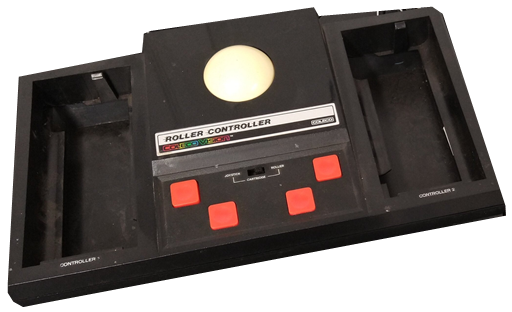
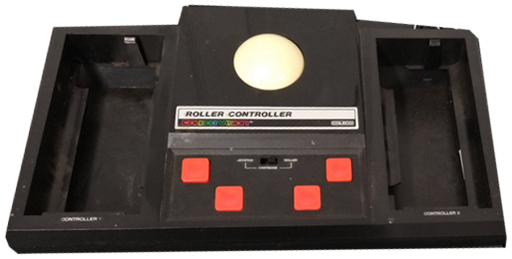
Rework Coleco controller photographs and align their visual zones

diff --git a/src/GWGUI.App/Views/Controls/Options/ControllerVisualization/Profiles/Coleco/ColecoSuperActionController.cs b/src/GWGUI.App/Views/Controls/Options/ControllerVisualization/Profiles/Coleco/ColecoSuperActionController.cs
@@ -6,23 +6,25 @@ internal static partial class ControllerArtworkCatalog
 {
     private static ProfileDefinition CreateColecoSuperActionController() => new(ControllerArtworkFileNames.ColecoSuperActionController,
     [
-        new(EmulationControllerVisualControl.DirectionUp, ControllerVisualZoneShape.Ellipse, 34, 2, 14, 8),
-        new(EmulationControllerVisualControl.DirectionDown, ControllerVisualZoneShape.Ellipse, 34, 17, 14, 8),
-        new(EmulationControllerVisualControl.DirectionLeft, ControllerVisualZoneShape.Ellipse, 20, 10, 14, 8),
-        new(EmulationControllerVisualControl.DirectionRight, ControllerVisualZoneShape.Ellipse, 48, 10, 14, 8),
-        new(EmulationControllerVisualControl.Key1, ControllerVisualZoneShape.RoundedRectangle, 27, 39, 11, 6),
-        new(EmulationControllerVisualControl.Key2, ControllerVisualZoneShape.RoundedRectangle, 41, 39, 11, 6),
-        new(EmulationControllerVisualControl.Key3, ControllerVisualZoneShape.RoundedRectangle, 55, 39, 11, 6),
-        new(EmulationControllerVisualControl.Key4, ControllerVisualZoneShape.RoundedRectangle, 27, 46, 11, 6),
-        new(EmulationControllerVisualControl.Key5, ControllerVisualZoneShape.RoundedRectangle, 41, 46, 11, 6),
-        new(EmulationControllerVisualControl.Key6, ControllerVisualZoneShape.RoundedRectangle, 55, 46, 11, 6),
-        new(EmulationControllerVisualControl.Key7, ControllerVisualZoneShape.RoundedRectangle, 27, 53, 11, 6),
-        new(EmulationControllerVisualControl.Key8, ControllerVisualZoneShape.RoundedRectangle, 41, 53, 11, 6),
-        new(EmulationControllerVisualControl.Key9, ControllerVisualZoneShape.RoundedRectangle, 55, 53, 11, 6),
-        new(EmulationControllerVisualControl.KeyStar, ControllerVisualZoneShape.RoundedRectangle, 27, 61, 11, 6),
-        new(EmulationControllerVisualControl.Key0, ControllerVisualZoneShape.RoundedRectangle, 41, 61, 11, 6),
-        new(EmulationControllerVisualControl.KeyHash, ControllerVisualZoneShape.RoundedRectangle, 55, 61, 11, 6),
-        new(EmulationControllerVisualControl.StickLeft, ControllerVisualZoneShape.RoundedRectangle, 30, 74, 15, 7),
-        new(EmulationControllerVisualControl.StickRight, ControllerVisualZoneShape.RoundedRectangle, 45, 74, 15, 7)
+        new(EmulationControllerVisualControl.DirectionUp, ControllerVisualZoneShape.Ellipse, 24, 23, 10, 6),
+        new(EmulationControllerVisualControl.DirectionDown, ControllerVisualZoneShape.Ellipse, 24, 34, 10, 6),
+        new(EmulationControllerVisualControl.DirectionLeft, ControllerVisualZoneShape.Ellipse, 16, 28, 10, 6),
+        new(EmulationControllerVisualControl.DirectionRight, ControllerVisualZoneShape.Ellipse, 34, 28, 10, 6),
+        new(EmulationControllerVisualControl.Key1, ControllerVisualZoneShape.RoundedRectangle, 23, 49.5, 6, 3.7),
+        new(EmulationControllerVisualControl.Key2, ControllerVisualZoneShape.RoundedRectangle, 29.5, 50, 6, 3.7),
+        new(EmulationControllerVisualControl.Key3, ControllerVisualZoneShape.RoundedRectangle, 36, 50.5, 6, 3.7),
+        new(EmulationControllerVisualControl.Key4, ControllerVisualZoneShape.RoundedRectangle, 19.5, 54, 6, 3.7),
+        new(EmulationControllerVisualControl.Key5, ControllerVisualZoneShape.RoundedRectangle, 26.5, 54.5, 6, 3.7),
+        new(EmulationControllerVisualControl.Key6, ControllerVisualZoneShape.RoundedRectangle, 33.5, 55, 6, 3.7),
+        new(EmulationControllerVisualControl.Key7, ControllerVisualZoneShape.RoundedRectangle, 16.5, 58.3, 6, 3.7),
+        new(EmulationControllerVisualControl.Key8, ControllerVisualZoneShape.RoundedRectangle, 23, 59, 6, 3.7),
+        new(EmulationControllerVisualControl.Key9, ControllerVisualZoneShape.RoundedRectangle, 29.5, 59.6, 6, 3.7),
+        new(EmulationControllerVisualControl.KeyStar, ControllerVisualZoneShape.RoundedRectangle, 13.5, 63.5, 6, 3.7),
+        new(EmulationControllerVisualControl.Key0, ControllerVisualZoneShape.RoundedRectangle, 20.5, 64, 6, 3.7),
+        new(EmulationControllerVisualControl.KeyHash, ControllerVisualZoneShape.RoundedRectangle, 27, 64.7, 6, 3.7),
+        new(EmulationControllerVisualControl.StickLeft, ControllerVisualZoneShape.RoundedRectangle, 9, 72.5, 7, 7),
+        new(EmulationControllerVisualControl.StickRight, ControllerVisualZoneShape.RoundedRectangle, 16, 73.5, 7, 7),
+        new(EmulationControllerVisualControl.TertiaryAction, ControllerVisualZoneShape.RoundedRectangle, 72, 69, 6, 6),
+        new(EmulationControllerVisualControl.QuaternaryAction, ControllerVisualZoneShape.RoundedRectangle, 76, 73, 6, 6)
     ]);
 }

diff --git a/src/GWGUI.App/Views/Controls/Options/ControllerVisualization/Profiles/Coleco/ColecoRollerController.cs b/src/GWGUI.App/Views/Controls/Options/ControllerVisualization/Profiles/Coleco/ColecoRollerController.cs
@@ -6,13 +6,13 @@ internal static partial class ControllerArtworkCatalog
 {
     private static ProfileDefinition CreateColecoRollerController() => new(ControllerArtworkFileNames.ColecoRollerController,
     [
-        new(EmulationControllerVisualControl.StickLeft, ControllerVisualZoneShape.Ellipse, 40, 19, 6, 7),
-        new(EmulationControllerVisualControl.StickRight, ControllerVisualZoneShape.Ellipse, 49, 19, 6, 7),
-        new(EmulationControllerVisualControl.StickUp, ControllerVisualZoneShape.Ellipse, 44, 15, 6, 5),
-        new(EmulationControllerVisualControl.StickDown, ControllerVisualZoneShape.Ellipse, 44, 26, 6, 5),
-        new(EmulationControllerVisualControl.PrimaryAction, ControllerVisualZoneShape.RoundedRectangle, 33, 57, 6, 9),
-        new(EmulationControllerVisualControl.SecondaryAction, ControllerVisualZoneShape.RoundedRectangle, 40.5, 65, 6, 9),
-        new(EmulationControllerVisualControl.TertiaryAction, ControllerVisualZoneShape.RoundedRectangle, 61, 50, 6, 10),
-        new(EmulationControllerVisualControl.QuaternaryAction, ControllerVisualZoneShape.RoundedRectangle, 56, 60, 6, 9)
+        new(EmulationControllerVisualControl.StickLeft, ControllerVisualZoneShape.Ellipse, 46, 20.5, 5, 8),
+        new(EmulationControllerVisualControl.StickRight, ControllerVisualZoneShape.Ellipse, 54, 20.5, 5, 8),
+        new(EmulationControllerVisualControl.StickUp, ControllerVisualZoneShape.Ellipse, 50, 13.5, 5, 7),
+        new(EmulationControllerVisualControl.StickDown, ControllerVisualZoneShape.Ellipse, 50, 28, 5, 7),
+        new(EmulationControllerVisualControl.PrimaryAction, ControllerVisualZoneShape.RoundedRectangle, 35.5, 60.5, 5.5, 10),
+        new(EmulationControllerVisualControl.SecondaryAction, ControllerVisualZoneShape.RoundedRectangle, 41.8, 71.8, 5.5, 10),
+        new(EmulationControllerVisualControl.TertiaryAction, ControllerVisualZoneShape.RoundedRectangle, 63.5, 60.5, 5.5, 10),
+        new(EmulationControllerVisualControl.QuaternaryAction, ControllerVisualZoneShape.RoundedRectangle, 57.4, 71.8, 5.5, 10)
     ]);
 }

diff --git a/src/GWGUI.Emulation.Coleco/Common/Machines/Common/Functions/InputFunctions.Settings.cs b/src/GWGUI.Emulation.Coleco/Common/Machines/Common/Functions/InputFunctions.Settings.cs
@@ -79,7 +79,9 @@ internal static class InputSettingsFunctions
             .Concat(new Dictionary<EmulationControllerVisualControl, string>
             {
                 [EmulationControllerVisualControl.StickLeft] = ControllerActionConstants.SpinnerLeft,
-                [EmulationControllerVisualControl.StickRight] = ControllerActionConstants.SpinnerRight
+                [EmulationControllerVisualControl.StickRight] = ControllerActionConstants.SpinnerRight,
+                [EmulationControllerVisualControl.TertiaryAction] = ControllerActionConstants.Purple,
+                [EmulationControllerVisualControl.QuaternaryAction] = ControllerActionConstants.Blue
             }).ToDictionary(pair => pair.Key, pair => pair.Value);
 
     private static IReadOnlyDictionary<EmulationControllerVisualControl, string> RollerVisualCommands(int port) => new Dictionary<EmulationControllerVisualControl, string>

diff --git a/docs/tasks/emulation/methode-modules.md b/docs/tasks/emulation/methode-modules.md
@@ -248,7 +248,7 @@ Les ressources sont séparées dès leur création selon les fichiers canoniques
 
 Pour un helper temporaire utilisant les API graphiques déjà présentes, référencer les assemblies qui déclarent tous ses types avant compilation ; avec System.Drawing, Bitmap/Graphics et Color/PointF/Rectangle relèvent respectivement de System.Drawing.Common et System.Drawing.Primitives. Avec PowerShell, activer ErrorActionPreference=Stop, préserver les tableaux de contours avec ConvertFrom-Json -NoEnumerate et parenthéser les calculs utilisés dans des listes ; une erreur non terminante ne valide aucun contrôle même si le processus retourne zéro. Inspecter la photographie et le PNG final ; ne pas dessiner une approximation ni fabriquer une variante artificielle. Une famille de commandes commune ne justifie pas des coordonnées identiques sur plusieurs photos : calibrer chaque vue séparément si le boîtier, la perspective ou la disposition diffère ; ne partager les zones qu’après comparaison effective des positions. Ne pas ajouter `Assets/credits.md` ou une documentation dans les assets. Une ressource provisoire explicitement admise reste une action à revoir, sans bloquer les autres réalisations.
 
-Avant sauvegarde d'un visuel, vérifier les pixels et dimensions réels du téléchargement : une réponse de miniature peut annoncer une largeur demandée différente de celle du fichier ; PNG ne garantit pas un fond transparent. Conserver proportions et coordonnées en pixels explicitement, indépendamment des DPI ; éviter les copies graphiques fondées sur les dimensions physiques. Les XPercent/YPercent des zones sont leurs coins supérieurs gauches, pas leurs centres. Si les mesures partent du centre d’un bouton, retirer une demi-largeur et une demi-hauteur avant normalisation ; vérifier les halos avec la même règle de rendu que ControllerVisualizer, puis le placement des zones de clic. Finaliser tous les catalogues, leurs appelants publics et les coordonnées des profils avant le build de livraison, pour éviter des builds complets successifs dus à des contrôles reportés. Pour les croix numériques, réutiliser DirectionalPad et ses secteurs avec les limites réelles de la croix ; les axes analogiques restent distincts. Inspecter chaque PNG final à sa taille réelle sur fond blanc puis sombre, en le comparant à sa photographie source : aucun bord coupé, bouton amputé, fond résiduel, trou dans le produit ou câble confondu avec le fond. Une suppression globale par couleur ne suffit pas ; conserver les surfaces du produit et traiter uniquement le fond identifié, y compris les zones enfermées ; conserver source/licence/auteur dans les preuves du module, sans document dans Assets. Une réponse HTTP 429 n'autorise pas les retries répétés : respecter l'attente annoncée ou utiliser une miniature officielle disponible.
+Avant sauvegarde d'un visuel, vérifier les pixels et dimensions réels du téléchargement : une réponse de miniature peut annoncer une largeur demandée différente de celle du fichier ; PNG ne garantit pas un fond transparent. Conserver proportions et coordonnées en pixels explicitement, indépendamment des DPI. Pour copier, recadrer ou redimensionner avec GDI+, employer DrawImage(source, rectangleDestination, rectangleSource, GraphicsUnit.Pixel) ; ne pas utiliser DrawImageUnscaled comme garantie de copie pixel à pixel entre images de DPI différents. Avant toute modification alpha, copier la source dans un Bitmap Format32bppArgb : une image RGB 24 bits ne conserve pas la transparence attribuée à ses pixels. Examiner le candidat composé sur fond clair et sombre, avec le boîtier entier, les câbles photographiés et les inscriptions, avant son intégration. Rejeter tout candidat dont la copie rogne le matériel. Après changement de photo, mesurer les zones depuis la nouvelle image et les superposer avant livraison ; un test de catalogue vert ne valide pas leur fidélité visuelle. Les XPercent/YPercent des zones sont leurs coins supérieurs gauches, pas leurs centres. Si les mesures partent du centre d’un bouton, retirer une demi-largeur et une demi-hauteur avant normalisation ; vérifier les halos avec la même règle de rendu que ControllerVisualizer, puis le placement des zones de clic. Finaliser tous les catalogues, leurs appelants publics et les coordonnées des profils avant le build de livraison, pour éviter des builds complets successifs dus à des contrôles reportés. Pour les croix numériques, réutiliser DirectionalPad et ses secteurs avec les limites réelles de la croix ; les axes analogiques restent distincts. Inspecter chaque PNG final à sa taille réelle sur fond blanc puis sombre, en le comparant à sa photographie source : aucun bord coupé, bouton amputé, fond résiduel, trou dans le produit ou câble confondu avec le fond. Une suppression globale par couleur ne suffit pas ; conserver les surfaces du produit et traiter uniquement le fond identifié, y compris les zones enfermées ; conserver source/licence/auteur dans les preuves du module, sans document dans Assets. Une réponse HTTP 429 n'autorise pas les retries répétés : respecter l'attente annoncée ou utiliser une miniature officielle disponible.
 
 ## 10. Cycle de vie et propriété
 

diff --git a/docs/tasks/emulation/commun.md b/docs/tasks/emulation/commun.md
@@ -954,3 +954,20 @@ Roller Coleco : photographie du périphérique réel publiée sur AtariAge, reca
 Inspection effective sur fond sombre : X68000Xvi 310 x 512 et NeoGeoMvs 512 x 512 ne montrent pas de fond extérieur à remplacer. SpectrumSe 512 x 167 conserve une bande photographique sous la façade ; seule cette région extérieure est retenue pour correction classique, avec conservation du connecteur sortant et de tous les RGB.
 
 Spectrum SE : 4260 pixels alpha modifiés dans la seule bande extérieure sous la façade. Comparaison de tous les RGB et dimensions avant remplacement : identiques, 512 x 167 ; connecteur sortant préservé et candidat examiné sur fond sombre. Les photos X68000Xvi et NeoGeoMvs restent inchangées après inspection effective. Aperçus et candidat supprimés, bitmaps libérés dans finally. Build complet Debug terminé code 0, application et 23 entryAssembly présents ; SHA256 de la ressource SpectrumSe embarquée identique au PNG corrigé. Aucun nouveau test ajouté pour cette modification du seul alpha, aucune modification des conversions natives Coleco ; revue globale non clôturée.
+
+- [ ] Reprendre les derniers visuels rejetés par l utilisateur.
+  - [x] Créer artifacts/rejected-artwork-review/super-action-source.png : télécharger la photographie produit du vrai Super Action, vérifier son modèle et ses pixels avant remplacement.
+  - [x] Modifier src/GWGUI.App/Assets/Controllers/coleco-super-action-controller.png et son profil Profiles/Coleco/ColecoSuperActionController.cs : remplacer le détourage imparfait par une photographie fidèle mieux isolée, puis placer les zones visibles sur cette photo.
+  - [x] Modifier src/GWGUI.Emulation.Coleco/Common/Machines/Common/Functions/InputFunctions.Settings.cs : raccorder les boutons latéraux Purple et Blue désormais visibles aux commandes existantes, sans créer de nouvelle commande ni association physique.
+  - [x] Modifier src/GWGUI.App/Assets/Controllers/coleco-roller-controller.png et Profiles/Coleco/ColecoRollerController.cs : améliorer le cadrage et les contours photographiques, conserver les commandes et réajuster leurs zones.
+  - [x] Créer artifacts/rejected-artwork-review/spectrum-se-source.pdf et les photographies PNG extraites de ses images JPEG : récupérer la photo du prototype réel publiée dans ZXF 11, comparer la résolution et la silhouette avant tout remplacement.
+  - [x] Créer artifacts/rejected-artwork-review/super-action-zones.png et roller-zones.png : superposer les zones réelles des profils sur les images finales, contrôler leur position avant livraison.
+  - [x] Modifier THIRD-PARTY-NOTICES.md et docs/tasks/emulation/commun.md : consigner les sources effectivement utilisées et les défauts corrigés, garder la qualification précédente distincte de l acceptation visuelle.
+  - [x] Modifier docs/tasks/emulation/methode-modules.md : préciser la conversion en Format32bppArgb avant masquage, les rectangles en GraphicsUnit.Pixel et le contrôle de la silhouette entière avant raccordement des zones.
+  - [x] Supprimer les sources et aperçus possédés sous artifacts/rejected-artwork-review après contrôle visuel, puis le dossier vide.
+  - [x] Modifier docs/tasks/emulation/commun.md : enregistrer la livraison après contrôle des zones et build complet, puis commiter le groupe des corrections sans push.
+  - [ ] Modifier src/GWGUI.Emulation.Sinclair/Assets/Machines/SpectrumSe.png si un défaut restant est confirmé : conserver la façade, les commandes, les proportions et la photographie réelle.
+
+Reprise après rejet visuel : le Super Action de musée et son masque approximatif sont remplacés par une photographie produit complète, rotation 90 degrés et détourage classique du blanc, 355 x 512 ; câble conservé, franges et petites composantes de fond nettoyées. Zones recalées et superposées à l image finale ; Purple/Blue visibles raccordés aux identifiants natifs existants, associations initiales toujours vides. Roller redressé de 10 degrés, 512 x 259 ; boule et quatre boutons contrôlés avec leurs halos recalés. Spectrum SE : photographie originale publiée retrouvée dans ZXF 11, image RGB 681 x 213 extraite du PDF, mais la publication coupe déjà le haut du cadrage. Son candidat ne constitue pas une amélioration suffisante ; le PNG de production reste inchangé, remplacement toujours à poursuivre. Aucun de ces contrôles techniques ne vaut acceptation visuelle par l utilisateur.
+
+Livraison des deux reprises Coleco : 32 contrôles ciblés réussis ; build Debug complet terminé code 0, application et 23 entryAssembly présents. Les deux ressources PNG embarquées ont un SHA256 identique aux fichiers de production, streams/reader et contexte de lecture libérés dans finally. Les 16 fichiers temporaires et leur dossier ont été supprimés. Cette livraison ne clôture pas la reprise des images : Spectrum SE et les autres visuels restent à revoir suivant les défauts constatés ; le résultat actuel des deux Coleco reste soumis à la revue visuelle de l utilisateur.

diff --git a/THIRD-PARTY-NOTICES.md b/THIRD-PARTY-NOTICES.md
@@ -116,15 +116,13 @@ Adaptation: proportional resizing to 512 x 407 pixels and removal of the exterio
 ## ColecoVision Super Action Controller photograph
 
 Asset: `src/GWGUI.App/Assets/Controllers/coleco-super-action-controller.png`.
-Photograph by Miguel Durán (Museo8bits), https://www.museo8bits.es/.
-Source: https://commons.wikimedia.org/wiki/File:Super_Action_Controller_Coleco_DSCF0353.JPG
-Original: https://upload.wikimedia.org/wikipedia/commons/e/ef/Super_Action_Controller_Coleco_DSCF0353.JPG
-License for the original photograph and this adaptation: Creative Commons Attribution-ShareAlike 3.0 Unported, https://creativecommons.org/licenses/by-sa/3.0/.
-Adaptation: crop of the front-facing controller, classical silhouette alpha masking and proportional resizing to 300 x 512 pixels. No generated hardware, controls, lettering or logos. The side buttons are outside this view and remain available through the command list.
+Product photograph published by PowerUp Gaming.
+Original: https://www.powerupgaming.ca/cdn/shop/products/colecovision-super-action-controller.png?v=1751239228
+Adaptation: 90-degree rotation, classical removal of the exterior white background, removal of detached background speckles, edge matte cleanup and proportional resizing to 355 x 512 pixels. The complete photographed controller and its cable are preserved. No generated hardware, controls, lettering or logos. No open license is asserted for this source photograph.
 
 ## ColecoVision Roller Controller photograph
 
 Asset: `src/GWGUI.App/Assets/Controllers/coleco-roller-controller.png`.
 Source photograph published by Atariboy2600 in "Life as a Retro Video Gamer - Colecovision", AtariAge, September 2024: https://forums.atariage.com/topic/372301-life-as-a-retro-video-gamer-colecovision/.
 Original: https://media.invisioncic.com/r322239/monthly_2024_09/image.jpeg.06f9185257de0896433a83378044139c.jpeg
-Adaptation: crop of the actual Roller Controller, classical silhouette alpha masking and proportional resizing to 512 x 312 pixels. No generated or reconstructed hardware, controls, lettering or logos. No open license is asserted for this source photograph.
+Adaptation: crop of the actual Roller Controller, classical silhouette alpha masking, 10-degree rotation to straighten its photographed face and proportional resizing to 512 x 259 pixels. No generated or reconstructed hardware, controls, lettering or logos. No open license is asserted for this source photograph.
